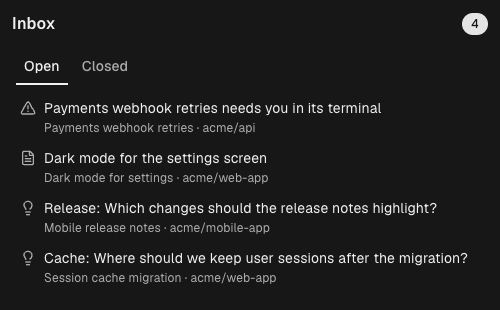
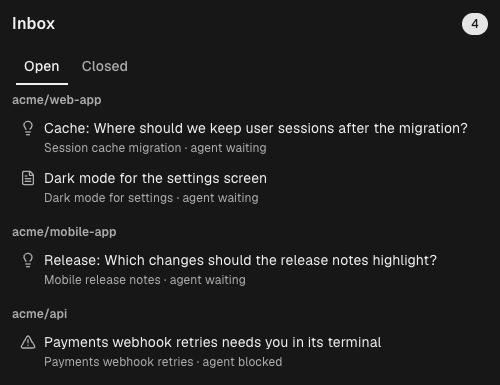
release: 0.2.0

diff --git a/src/panel.tsx b/src/panel.tsx
@@ -308,20 +308,24 @@ function ThreadView({ thread }: { thread: Thread }) {
   )
 }
 
-function describe(item: ThreadSummary): string {
-  if (item.state !== 'open') return `${item.source} · ${stateLabel(item.kind, item.state)}`
+/** The line under a thread's title. Under a workspace heading the workspace is not repeated. */
+function describe(item: ThreadSummary, grouped: boolean): string {
+  const suffix = item.workspace ? ` · ${item.workspace}` : ''
+  const source = grouped && suffix && item.source.endsWith(suffix) ? item.source.slice(0, -suffix.length) : item.source
+  if (item.state !== 'open') return `${source} · ${stateLabel(item.kind, item.state)}`
   const agent = agentStateLabel(item.agentState)
-  return agent ? `${item.source} · ${agent}` : item.source
+  return agent ? `${source} · ${agent}` : source
 }
 
-function ThreadItems({ items, label }: { items: ThreadSummary[]; label: string }) {
+function ThreadItems({ items, label, grouped }: { items: ThreadSummary[]; label: string; grouped: boolean }) {
   return (
     <List label={label}>
       {items.map((item) => (
         <ListItem
+          key={item.id}
           icon={KIND_ICON[item.kind]}
           title={item.title}
-          description={describe(item)}
+          description={describe(item, grouped)}
           onPress={() => openThread(item.id)}
         />
       ))}
@@ -339,7 +343,7 @@ function ThreadList({ items }: { items: ThreadSummary[] }) {
   }
   const groups = groupByWorkspace(items)
   // One workspace needs no headings; several get one each, so parallel work reads apart.
-  if (groups.length < 2) return ThreadItems({ items, label: 'Threads' })
+  if (groups.length < 2) return ThreadItems({ items, label: 'Threads', grouped: false })
   return (
     <Stack gap="md">
       {groups.map((group) => (
@@ -347,7 +351,7 @@ function ThreadList({ items }: { items: ThreadSummary[] }) {
           <Text size="xs" weight="semibold" muted>
             {group.workspace}
           </Text>
-          {ThreadItems({ items: group.items, label: group.workspace })}
+          {ThreadItems({ items: group.items, label: group.workspace, grouped: true })}
         </Stack>
       ))}
     </Stack>

diff --git a/src/panel.test.tsx b/src/panel.test.tsx
@@ -183,7 +183,7 @@ test('the list shows the agent state and groups several workspaces', async () =>
   })
   const view = await mount(panel, { host })
   assert.ok(view.find({ text: 'acme/api' }))
-  assert.ok(view.find({ text: /DB work · acme\/web-app · agent waiting/ }))
+  assert.ok(view.find({ text: /DB work · agent waiting/ }))
   assert.deepEqual(view.warnings, [])
   await view.unmount()
 })

diff --git a/CHANGELOG.md b/CHANGELOG.md
@@ -6,6 +6,8 @@ All notable changes are listed here. The format follows
 
 ## [Unreleased]
 
+## [0.2.0] - 2026-11-10
+
 ### Added
 
 - Answer from the agent's terminal as well as the panel: the agent restates the question with
@@ -21,6 +23,12 @@ All notable changes are listed here. The format follows
 - The back button reads "← Inbox" instead of using an upward chevron.
 - Thread layout: the session text is shown in full on its own line, sections are separated, and
   option descriptions show under each option.
+- Under a workspace heading, threads no longer repeat the workspace name.
+
+### Fixed
+
+- Session titles no longer start with the spinner glyph agents animate in their tab title.
+- A closed tab is recognized as a closed session.
 
 ## [0.1.0] - 2026-11-10
 
@@ -34,5 +42,6 @@ All notable changes are listed here. The format follows
 - Safeguards: fail open past 1.5 s, no replies into a blocked prompt, rollback when a reply is not
   delivered, dedupe of retried calls, and text caps under Orca's render limits.
 
-[Unreleased]: https://github.com/guillebe/orca-inbox/compare/v0.1.0...HEAD
+[Unreleased]: https://github.com/guillebe/orca-inbox/compare/v0.2.0...HEAD
+[0.2.0]: https://github.com/guillebe/orca-inbox/compare/v0.1.0...v0.2.0
 [0.1.0]: https://github.com/guillebe/orca-inbox/releases/tag/v0.1.0
